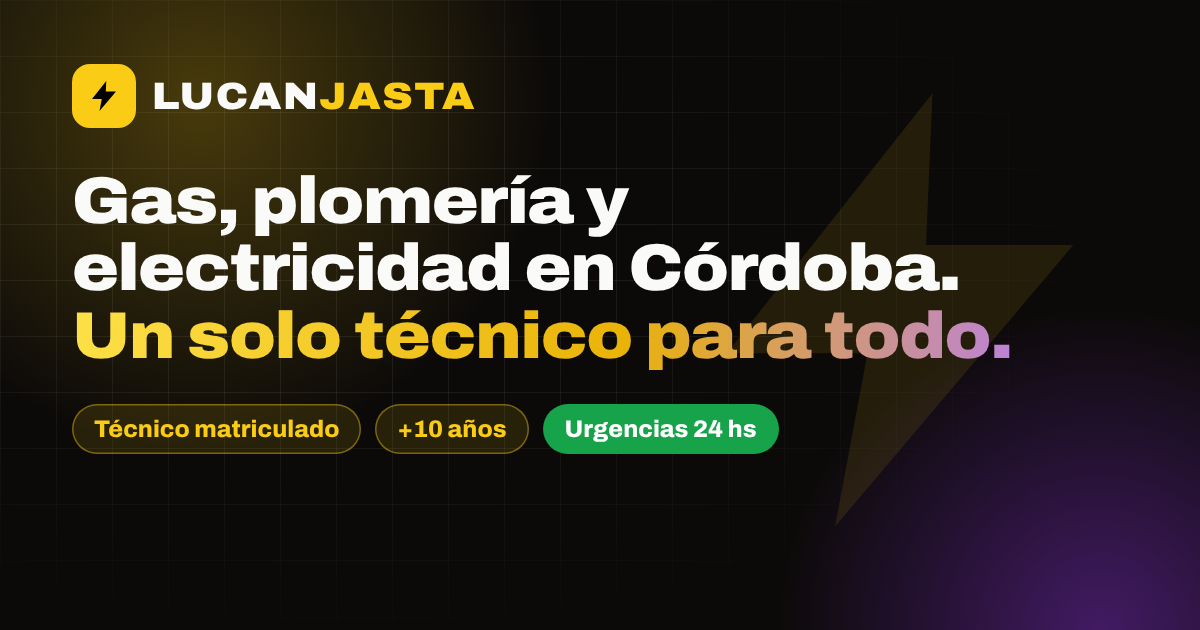
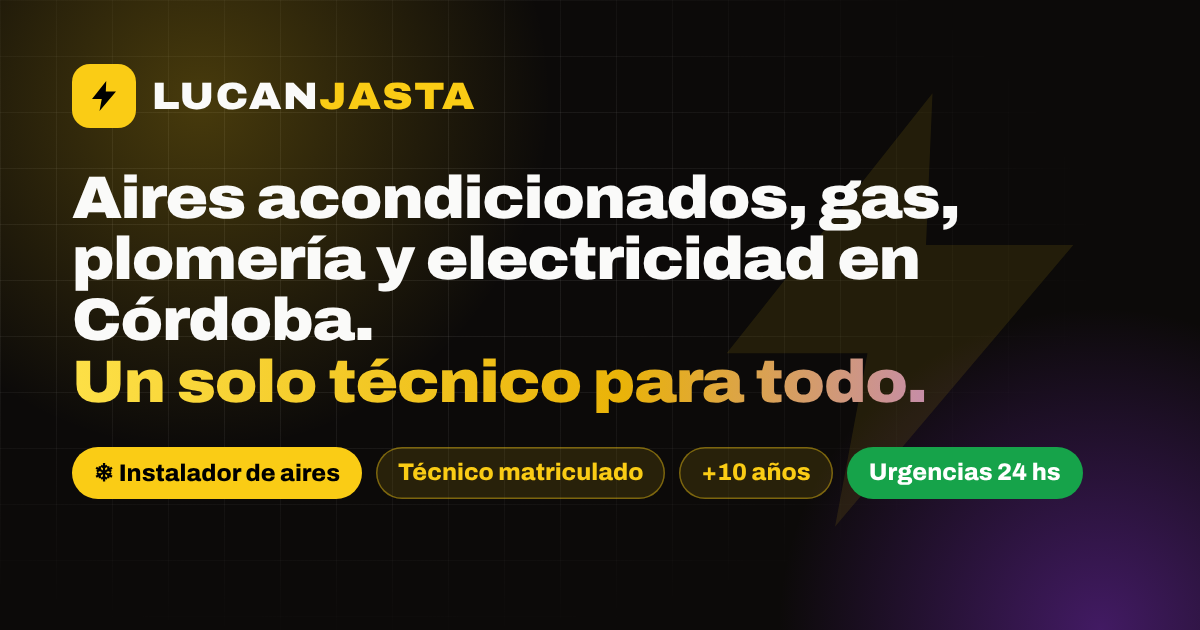
Destacar "Instalador de aires acondicionados"
- Titular, sello del inicio, acceso rápido y cinta mencionan la instalación de aires
- Tarjeta "Instalación de aires acondicionados" con etiqueta Instalador, primera en la lista
- Título, descripción, palabras clave, datos estructurados, llms.txt e imagen para compartir

Claude-Session: https://claude.ai/code/session_01TYiSD7H4def1Q2H7U5V9bp

Changed region(s): [[0.0617, 0.2714, 0.925, 0.8143]]

diff --git a/index.html b/index.html
@@ -3,9 +3,9 @@
 <head>
   <meta charset="UTF-8">
   <meta name="viewport" content="width=device-width, initial-scale=1, viewport-fit=cover">
-  <title>Lucanjasta Servicios Integrales | Gas, plomería y electricidad en Córdoba</title>
-  <meta name="description" content="Técnico matriculado en Córdoba con más de 10 años de trayectoria. Gas, plomería y cloacas, electricidad, aires acondicionados, energía solar y pintura. Urgencias 24 hs y presupuesto sin cargo por WhatsApp.">
-  <meta name="keywords" content="gasista matriculado Córdoba, plomero Córdoba, electricista 24 horas Córdoba, instalación aire acondicionado Córdoba, termotanque solar, desobstrucción cloacas, pintura humedad">
+  <title>Lucanjasta | Instalador de aires acondicionados, gas, plomería y electricidad en Córdoba</title>
+  <meta name="description" content="Técnico matriculado en Córdoba con más de 10 años de trayectoria. Instalador de aires acondicionados split y compactos, gas, plomería y cloacas, electricidad, energía solar y pintura. Urgencias 24 hs y presupuesto sin cargo por WhatsApp.">
+  <meta name="keywords" content="instalador de aires acondicionados Córdoba, instalación de aire acondicionado split Córdoba, gasista matriculado Córdoba, plomero Córdoba, electricista 24 horas Córdoba, instalación aire acondicionado Córdoba, termotanque solar, desobstrucción cloacas, pintura humedad">
   <meta name="author" content="Lucanjasta Servicios Integrales">
   <meta name="robots" content="index, follow, max-image-preview:large">
   <meta name="theme-color" content="#0c0a09">
@@ -17,7 +17,7 @@
   <meta property="og:type" content="website">
   <meta property="og:locale" content="es_AR">
   <meta property="og:site_name" content="Lucanjasta Servicios Integrales">
-  <meta property="og:title" content="Lucanjasta | Gas, plomería y electricidad en Córdoba">
+  <meta property="og:title" content="Lucanjasta | Instalador de aires acondicionados, gas, plomería y electricidad en Córdoba">
   <meta property="og:description" content="Un solo técnico matriculado para todo tu hogar o negocio. Urgencias 24 hs y presupuesto sin cargo por WhatsApp.">
   <meta property="og:url" content="https://www.lucajasta.com.ar/">
   <meta property="og:image" content="https://www.lucajasta.com.ar/og-image.png">
@@ -48,7 +48,7 @@
         "@id": "https://www.lucajasta.com.ar/#negocio",
         "name": "Lucanjasta Servicios Integrales",
         "alternateName": "LuCanJasTa",
-        "description": "Servicios integrales para hogares, countries, comercios y oficinas en Córdoba: gas, plomería y cloacas, electricidad, aires acondicionados, energías renovables y pintura. Técnico matriculado con más de 10 años de trayectoria y urgencias 24 horas.",
+        "description": "Servicios integrales para hogares, countries, comercios y oficinas en Córdoba: instalación de aires acondicionados, gas, plomería y cloacas, electricidad, energías renovables y pintura. Técnico matriculado con más de 10 años de trayectoria y urgencias 24 horas.",
         "url": "https://www.lucajasta.com.ar/",
         "telephone": "+54 9 351 248-5620",
         "email": "Jorgelistello2024@hotmail.com",
@@ -61,7 +61,7 @@
         ],
         "hasMap": "https://www.google.com/maps/search/Lucanjasta%20Servicios%20Integrales/@-31.43350222,-64.27089526,17z?hl=es",
         "sameAs": ["https://www.instagram.com/lucanjasta"],
-        "knowsAbout": ["Instalaciones de gas", "Plomería", "Cloacas", "Electricidad", "Aires acondicionados", "Termotanques solares", "Pintura", "Impermeabilización"],
+        "knowsAbout": ["Instalaciones de gas", "Plomería", "Cloacas", "Electricidad", "Instalación de aires acondicionados", "Aires acondicionados", "Termotanques solares", "Pintura", "Impermeabilización"],
         "hasOfferCatalog": {
           "@type": "OfferCatalog",
           "name": "Especialidades",
@@ -69,7 +69,7 @@
             { "@type": "Offer", "itemOffered": { "@type": "Service", "name": "Gas", "description": "Detección y reparación de pérdidas, medidores, termotanques, calefactores y habilitaciones normadas." } },
             { "@type": "Offer", "itemOffered": { "@type": "Service", "name": "Plomería y cloacas", "description": "Desobstrucción de cloacas urgentes, termofusión, sanitarios, mochilas y griferías." } },
             { "@type": "Offer", "itemOffered": { "@type": "Service", "name": "Electricidad", "description": "Urgencias eléctricas 24 horas, tableros, cortocircuitos y cableado de obras nuevas." } },
-            { "@type": "Offer", "itemOffered": { "@type": "Service", "name": "Aires acondicionados", "description": "Instalación de equipos split y compactos, pruebas de presión, recarga de gas y service anual." } },
+            { "@type": "Offer", "itemOffered": { "@type": "Service", "name": "Instalación de aires acondicionados", "description": "Instalador de aires acondicionados: instalación de equipos split y compactos, pruebas de presión, recarga de gas y service anual." } },
             { "@type": "Offer", "itemOffered": { "@type": "Service", "name": "Energías renovables", "description": "Venta e instalación de termotanques solares, mantenimiento de paneles y asesoramiento en ahorro energético." } },
             { "@type": "Offer", "itemOffered": { "@type": "Service", "name": "Pintura", "description": "Interiores y exteriores, tratamientos de humedad, impermeabilización de frentes y sellado de techos." } }
           ]
@@ -653,9 +653,9 @@
       </div>
       <div class="container hero__in">
         <div>
-          <span class="eyebrow reveal"><svg class="ic" aria-hidden="true"><use href="#i-badge"/></svg> Profesional técnico matriculado</span>
+          <span class="eyebrow reveal"><svg class="ic" aria-hidden="true"><use href="#i-badge"/></svg> Técnico matriculado · Instalador de aires</span>
           <h1 id="hero-title" class="split">
-            <span class="split__plain">Gas, plomería y electricidad en Córdoba.</span>
+            <span class="split__plain">Aires acondicionados, gas, plomería y electricidad en Córdoba.</span>
             <span class="hl">Un solo técnico para todo.</span>
             <svg class="spark" viewBox="0 0 420 18" aria-hidden="true" preserveAspectRatio="none"><path d="M2 12 L120 10 L140 3 L156 15 L172 6 L190 11 L418 8"/></svg>
           </h1>
@@ -681,7 +681,7 @@
           <a class="orbit__tile" href="#srv-gas"><svg class="ic" aria-hidden="true"><use href="#i-fire"/></svg>Gas</a>
           <a class="orbit__tile" href="#srv-plomeria"><svg class="ic" aria-hidden="true"><use href="#i-drop"/></svg>Plomería</a>
           <a class="orbit__tile" href="#srv-electricidad"><svg class="ic" aria-hidden="true"><use href="#i-bolt"/></svg>Electricidad</a>
-          <a class="orbit__tile" href="#srv-aires"><svg class="ic" aria-hidden="true"><use href="#i-snow"/></svg>Aires</a>
+          <a class="orbit__tile" href="#srv-aires"><svg class="ic" aria-hidden="true"><use href="#i-snow"/></svg>Instalación de aires</a>
           <a class="orbit__tile" href="#srv-solar"><svg class="ic" aria-hidden="true"><use href="#i-sun"/></svg>Solar</a>
           <a class="orbit__tile" href="#srv-pintura"><svg class="ic" aria-hidden="true"><use href="#i-roller"/></svg>Pintura</a>
           <div class="orbit__badge">
@@ -705,8 +705,8 @@
     <!-- ================= CINTA ================= -->
     <div class="ticker" aria-hidden="true">
       <div class="ticker__track">
-        <div class="ticker__group"><span class="ticker__item">Gas<svg class="ic"><use href="#i-fire"/></svg></span><span class="ticker__item">Plomería<svg class="ic"><use href="#i-drop"/></svg></span><span class="ticker__item">Electricidad<svg class="ic"><use href="#i-bolt"/></svg></span><span class="ticker__item">Aires acondicionados<svg class="ic"><use href="#i-snow"/></svg></span><span class="ticker__item">Energía solar<svg class="ic"><use href="#i-sun"/></svg></span><span class="ticker__item">Pintura<svg class="ic"><use href="#i-roller"/></svg></span><span class="ticker__item">Urgencias 24 hs<svg class="ic"><use href="#i-clock"/></svg></span></div>
-        <div class="ticker__group"><span class="ticker__item">Gas<svg class="ic"><use href="#i-fire"/></svg></span><span class="ticker__item">Plomería<svg class="ic"><use href="#i-drop"/></svg></span><span class="ticker__item">Electricidad<svg class="ic"><use href="#i-bolt"/></svg></span><span class="ticker__item">Aires acondicionados<svg class="ic"><use href="#i-snow"/></svg></span><span class="ticker__item">Energía solar<svg class="ic"><use href="#i-sun"/></svg></span><span class="ticker__item">Pintura<svg class="ic"><use href="#i-roller"/></svg></span><span class="ticker__item">Urgencias 24 hs<svg class="ic"><use href="#i-clock"/></svg></span></div>
+        <div class="ticker__group"><span class="ticker__item">Gas<svg class="ic"><use href="#i-fire"/></svg></span><span class="ticker__item">Plomería<svg class="ic"><use href="#i-drop"/></svg></span><span class="ticker__item">Electricidad<svg class="ic"><use href="#i-bolt"/></svg></span><span class="ticker__item">Instalación de aires acondicionados<svg class="ic"><use href="#i-snow"/></svg></span><span class="ticker__item">Energía solar<svg class="ic"><use href="#i-sun"/></svg></span><span class="ticker__item">Pintura<svg class="ic"><use href="#i-roller"/></svg></span><span class="ticker__item">Urgencias 24 hs<svg class="ic"><use href="#i-clock"/></svg></span></div>
+        <div class="ticker__group"><span class="ticker__item">Gas<svg class="ic"><use href="#i-fire"/></svg></span><span class="ticker__item">Plomería<svg class="ic"><use href="#i-drop"/></svg></span><span class="ticker__item">Electricidad<svg class="ic"><use href="#i-bolt"/></svg></span><span class="ticker__item">Instalación de aires acondicionados<svg class="ic"><use href="#i-snow"/></svg></span><span class="ticker__item">Energía solar<svg class="ic"><use href="#i-sun"/></svg></span><span class="ticker__item">Pintura<svg class="ic"><use href="#i-roller"/></svg></span><span class="ticker__item">Urgencias 24 hs<svg class="ic"><use href="#i-clock"/></svg></span></div>
       </div>
     </div>
 
@@ -720,6 +720,23 @@
         </div>
 
         <div class="cards" id="cards">
+          <article class="card reveal" id="srv-aires" style="--i:0">
+            <div class="card__top">
+              <span class="card__icon"><svg class="ic" aria-hidden="true"><use href="#i-snow"/></svg></span>
+              <span class="tag tag--promo">Instalador</span>
+            </div>
+            <h3>Instalación de aires acondicionados</h3>
+            <ul class="checks">
+              <li><svg class="ic" aria-hidden="true"><use href="#i-check"/></svg> Instalación de equipos split y compactos, con soportes y cañerías.</li>
+              <li><svg class="ic" aria-hidden="true"><use href="#i-check"/></svg> Pruebas de presión y sellado de fugas.</li>
+              <li><svg class="ic" aria-hidden="true"><use href="#i-check"/></svg> Recarga técnica de gas refrigerante.</li>
+              <li><svg class="ic" aria-hidden="true"><use href="#i-check"/></svg> Limpieza profunda y service anual.</li>
+            </ul>
+            <a class="card__cta" href="https://wa.me/5493512485620?text=Hola%20Lucanjasta%2C%20quisiera%20consultar%20por%20la%20instalaci%C3%B3n%20de%20un%20aire%20acondicionado." target="_blank" rel="noopener" data-wa="Servicio aires">
+              <svg class="ic" aria-hidden="true"><use href="#i-wa"/></svg> Consultar instalación <svg class="ic ic--arrow" aria-hidden="true"><use href="#i-arrow"/></svg>
+            </a>
+          </article>
+
           <article class="card reveal" id="srv-gas" style="--i:0">
             <div class="card__top">
               <span class="card__icon"><svg class="ic" aria-hidden="true"><use href="#i-fire"/></svg></span>
@@ -768,22 +785,6 @@
             </ul>
             <a class="card__cta" href="https://wa.me/5493512485620?text=Hola%20Lucanjasta%2C%20quisiera%20consultar%20por%20electricidad." target="_blank" rel="noopener" data-wa="Servicio electricidad">
               <svg class="ic" aria-hidden="true"><use href="#i-wa"/></svg> Consultar por electricidad <svg class="ic ic--arrow" aria-hidden="true"><use href="#i-arrow"/></svg>
-            </a>
-          </article>
-
-          <article class="card reveal" id="srv-aires" style="--i:0">
-            <div class="card__top">
-              <span class="card__icon"><svg class="ic" aria-hidden="true"><use href="#i-snow"/></svg></span>
-            </div>
-            <h3>Aires acondicionados</h3>
-            <ul class="checks">
-              <li><svg class="ic" aria-hidden="true"><use href="#i-check"/></svg> Colocación de equipos split y compactos.</li>
-              <li><svg class="ic" aria-hidden="true"><use href="#i-check"/></svg> Pruebas de presión y sellado de fugas.</li>
-              <li><svg class="ic" aria-hidden="true"><use href="#i-check"/></svg> Recarga técnica de gas refrigerante.</li>
-              <li><svg class="ic" aria-hidden="true"><use href="#i-check"/></svg> Limpieza profunda y service anual.</li>
-            </ul>
-            <a class="card__cta" href="https://wa.me/5493512485620?text=Hola%20Lucanjasta%2C%20quisiera%20consultar%20por%20aires%20acondicionados." target="_blank" rel="noopener" data-wa="Servicio aires">
-              <svg class="ic" aria-hidden="true"><use href="#i-wa"/></svg> Consultar por aires <svg class="ic ic--arrow" aria-hidden="true"><use href="#i-arrow"/></svg>
             </a>
           </article>
 
@@ -939,7 +940,7 @@
             <span class="brand__mark" aria-hidden="true"><svg class="ic" style="width:22px;height:22px"><use href="#i-bolt"/></svg></span>
             <span>Lucan<b>jasta</b></span>
           </a>
-          <p>Servicios integrales de gas, plomería, electricidad, aires acondicionados, energía solar y pintura. Profesional técnico matriculado en Córdoba.</p>
+          <p>Instalador de aires acondicionados y servicios integrales de gas, plomería, electricidad, energía solar y pintura. Profesional técnico matriculado en Córdoba.</p>
         </div>
         <div>
           <h2>Contacto</h2>
@@ -955,7 +956,7 @@
             <li><a href="#srv-gas">Gas</a></li>
             <li><a href="#srv-plomeria">Plomería y cloacas</a></li>
             <li><a href="#srv-electricidad">Electricidad</a></li>
-            <li><a href="#srv-aires">Aires acondicionados</a></li>
+            <li><a href="#srv-aires">Instalación de aires acondicionados</a></li>
             <li><a href="#srv-solar">Energías renovables</a></li>
             <li><a href="#srv-pintura">Pintura</a></li>
           </ul>
@@ -1024,7 +1025,7 @@
       });
       if (part.classList.contains('split__plain')) part.appendChild(document.createTextNode(' '));
     });
-    h1.setAttribute('aria-label', 'Gas, plomería y electricidad en Córdoba. Un solo técnico para todo.');
+    h1.setAttribute('aria-label', 'Aires acondicionados, gas, plomería y electricidad en Córdoba. Un solo técnico para todo.');
     requestAnimationFrame(() => requestAnimationFrame(() => h1.classList.add('is-in')));
 
     /* Barra de progreso */
